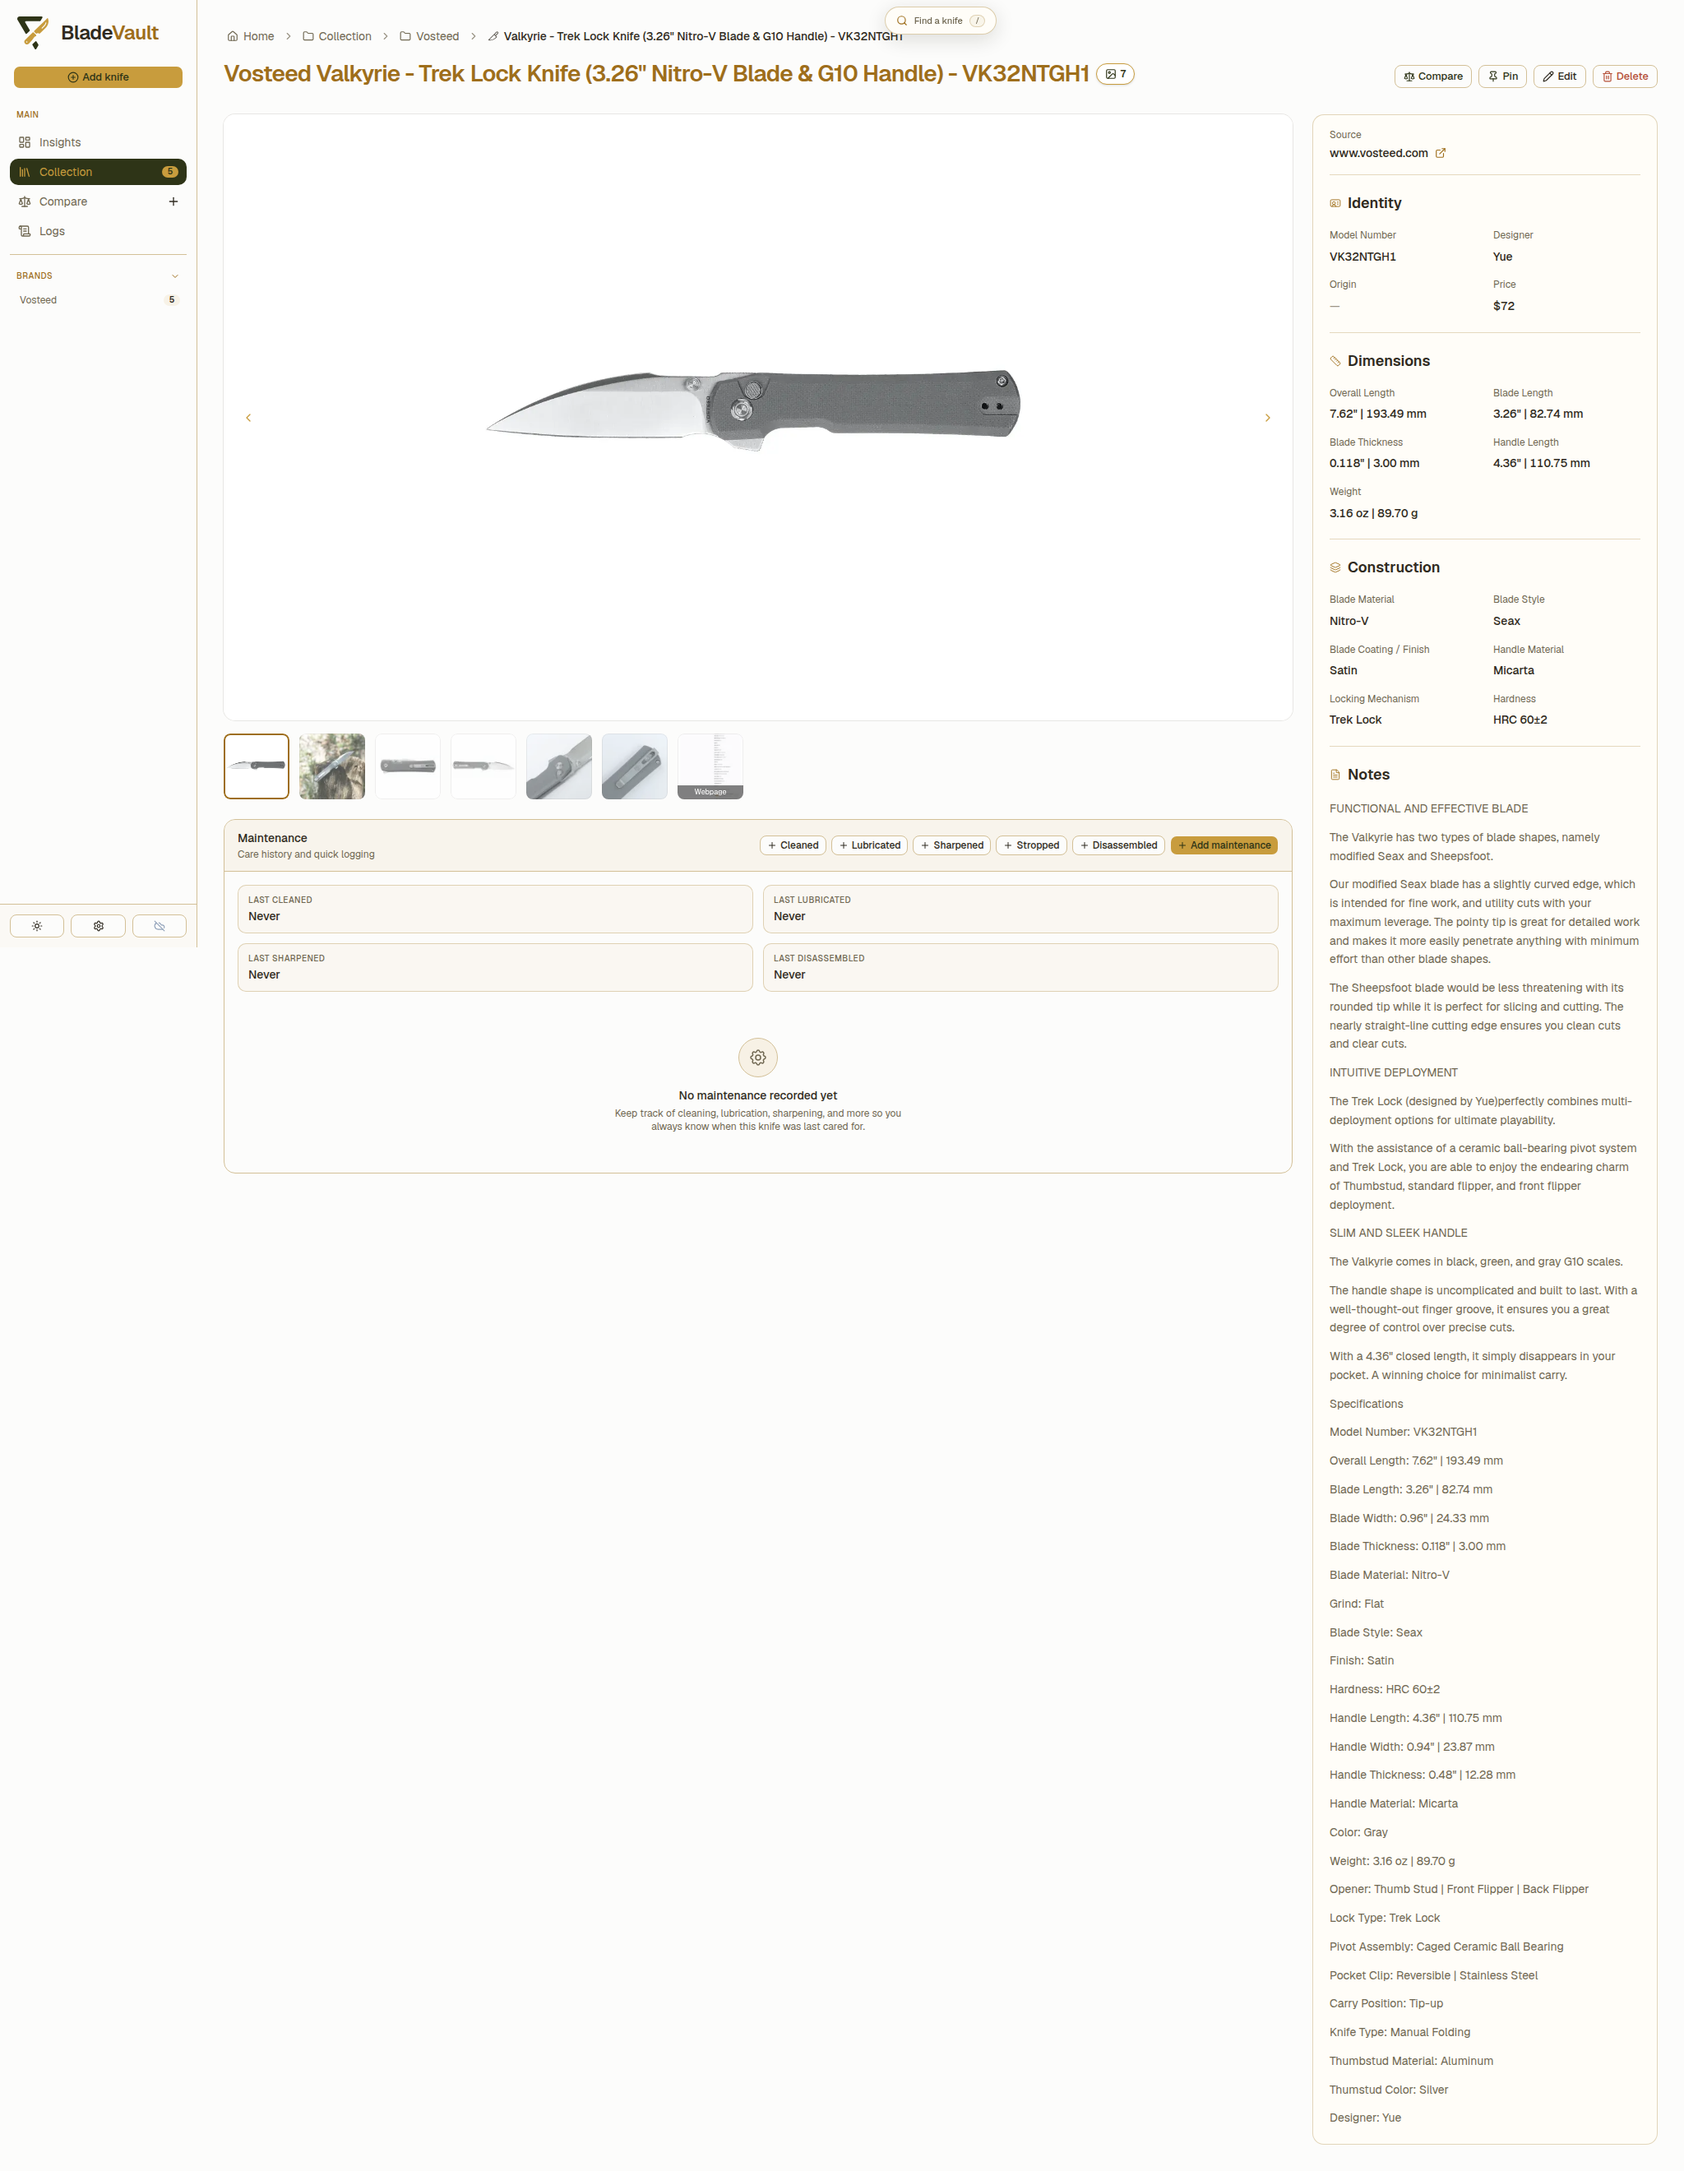
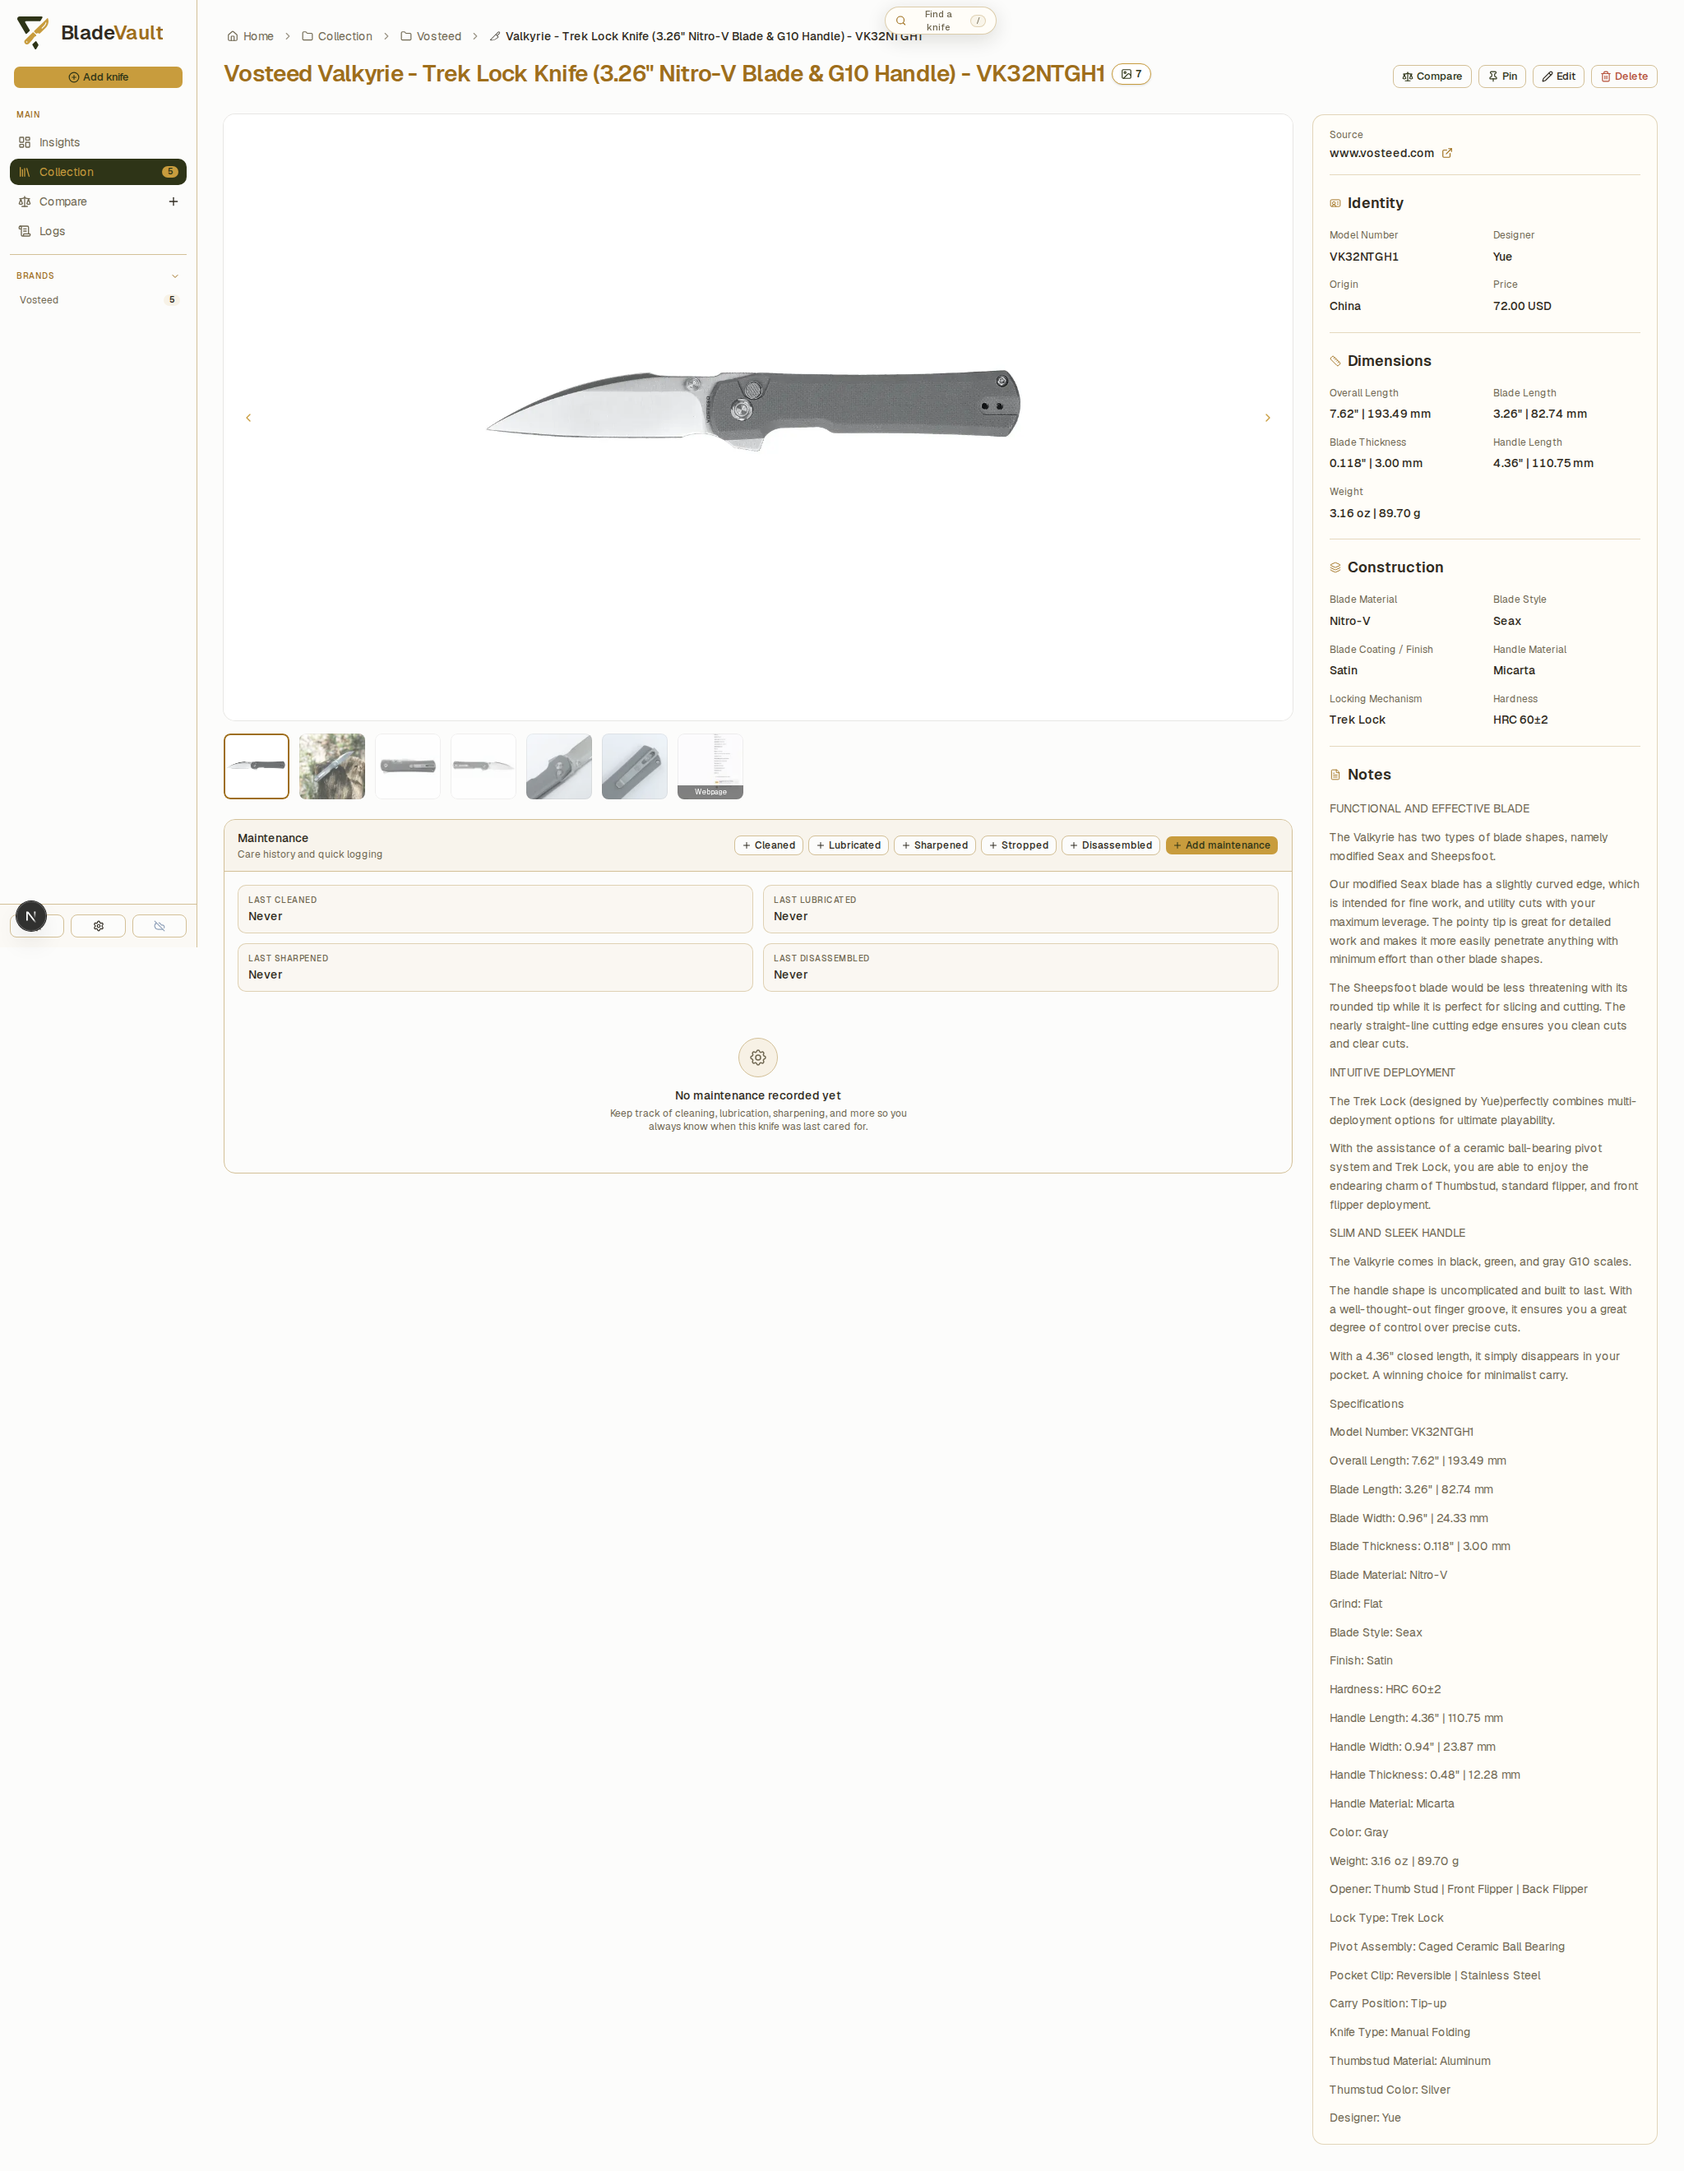
docs(update-a-saved-knife): cover the field the page leaves blank, and re-shoot the record set
The import now reads the Valkyrie's separate Blade Style / Finish rows, so
the page no longer has a wrong value to correct. Step 2 covers the Edit
Knife view and the field the product page never states (Country, shown as
Origin), step 4 shows the record after that value is added, and every shot
on the page comes from one capture session against a scratch vault copy.

diff --git a/docs/guides/update-a-saved-knife.md b/docs/guides/update-a-saved-knife.md
@@ -1,6 +1,6 @@
 # Update a saved knife
 
-An import is a starting point, not a finished record. It fills what the page states and leaves the rest blank, and occasionally a value lands in the wrong field. Everything stays editable afterwards: open the knife, click **Edit**, and change anything. The record below is the imported Vosteed Valkyrie (VK32NTGH1) being tidied up.
+An import is a starting point, not a finished record: it fills what the product page states and leaves the rest empty. Everything on it stays editable afterwards — open the knife, click **Edit**, and fill in the blanks or change anything. The record below is the imported Vosteed Valkyrie (VK32NTGH1), finished off by hand.
 
 ## 1. Open the record and click **Edit**
 
@@ -12,20 +12,22 @@ The record you land on is the read-only view — specifications, notes, images, 
 
 ![The imported Valkyrie record as it opens: specifications, notes, images, and the link to the source page](../images/update-a-saved-knife-record.png)
 
-Clicking **Edit** swaps it for the **Edit Knife** view, which gives you the whole record at once:
+Clicking **Edit** swaps the record for the **Edit Knife** view.
+
+## 2. Fill in what the page does not state
+
+The **Edit Knife** view gives you the whole record at once:
 
 - **Product URL** — the page the knife was imported from, kept on the record so you can see where a value came from.
-- **Identity, Dimensions, Construction, Notes** — every field, prefilled with what was imported.
+- **Identity, Dimensions, Construction, Notes** — every field, prefilled with what the import read off the page.
 - **Images** — every picture that came with the import, with the webpage capture, where you tick which ones to keep, set the **cover**, reorder, or remove them.
 - **Ownership** — mark the knife **Sold** when it leaves the collection; it stays in the vault with a marker on its card.
 
-## 2. Correct what the import got wrong
+Most of it is already right. The Valkyrie's page lists `Blade Style: Seax` and `Finish: Satin` in separate rows, so the import put **Seax** in **Blade style**, **Satin** in **Blade coating / finish**, and **Price** reads `72.00 USD`. What the page never states stays empty: it does not say where the knife is made, so **Country** is blank and the record shows **Origin** as `—`.
 
-The Valkyrie's page lists blade style and finish in one row, so the import wrote **Seax Finish: Satin** into **Blade style** and left **Blade Coating / Finish** empty. Splitting them — **Seax** and **Satin** — is two edits. The same pass fills what a product page rarely states, such as the price.
+Type `China` into **Country** — where Vosteed makes this knife — and nothing else on the record moves:
 
-![The Edit view: source URL, every field, and the image library](../images/update-a-saved-knife-edit.png)
-
-Nothing is overwritten in bulk and nothing is lost: change one field and the rest of the record stays as it was.
+![The Edit Knife view: the source URL, every field, the image library and its cover](../images/update-a-saved-knife-edit.png)
 
 ## 3. Save the changes
 
@@ -35,13 +37,13 @@ At the bottom right of the edit form, click **Save Changes**:
 
 ![The bottom of the edit form, with the Cancel and Save Changes action bar](../images/update-a-saved-knife-save.png)
 
-**Save Changes** writes the edits and returns you to the record.
+**Save Changes** writes the edit and returns you to the record.
 
-## 4. See the corrected record
+## 4. See the completed record
 
-![The updated record: corrected blade style and finish, price, and the link to the source page](../images/update-a-saved-knife-saved.png)
+![The saved record with Origin filled in — China — beside the specifications the import read off the page](../images/update-a-saved-knife-saved.png)
 
-The **Source** link still points at the page it came from, so the next time you wonder where a specification came from, the answer is one click away — and if the import captured the page, that screenshot is in the gallery too (see [Capture source pages](capture-sources.md)).
+**Origin** now reads `China`, and everything the import filled in is still there: **Blade style** `Seax`, **Blade coating / finish** `Satin`, **Price** `72.00 USD`. The **Source** link still points at the page it came from, so the next time you wonder where a specification came from, the answer is one click away — and if the import captured the page, that screenshot is in the gallery too (see [Capture source pages](capture-sources.md)).
 
 ## Related
 
